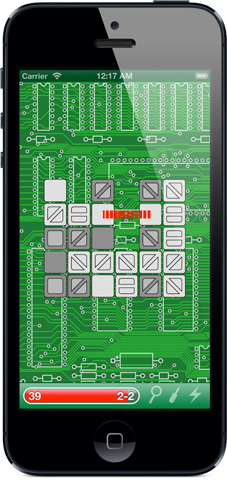
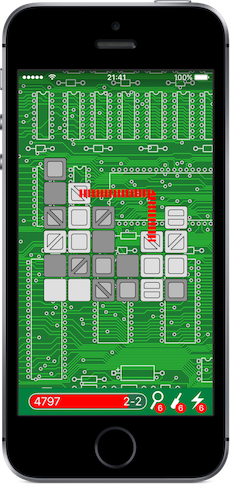
update ShortCircuit page

diff --git a/shortcircuit/index.html b/shortcircuit/index.html
@@ -6,7 +6,7 @@
 <head>
 	<title>ShortCircuit for iPhone, iPod Touch and iPad</title>
 	<link rel="stylesheet" href="style.css" />
-	<script src="http://ajax.googleapis.com/ajax/libs/jquery/1.10.2/jquery.min.js"></script>
+	<script src="https://code.jquery.com/jquery-1.12.4.min.js"></script>
 	<script type="text/javascript">
 	    function resize() {
             var bodyheight = $(window).height();
@@ -20,19 +20,19 @@
 
 <body>
     <div id="main">
-        <img src="iPhone.png" width="227" height="480" id="iPhone" />
+        <img src="iPhone@2x.png" width="230" height="485" id="iPhone"/>
         <img src="title.png" width="377" height="70" style="margin-top:20px"/>
         <br/><br/>
         <span style="color:red;">★</span> Remove all tiles before the time runs out<br/>
         <span style="color:red;">★</span> Connect matching tiles with a circuit to remove them<br/>
-        <img src="circuits.png" width="225" height="160" /><br/>
-        <span style="color:red;">★</span> Available for iPhone, iPod Touch and iPad<br/>
+        <img src="circuits@2x.png" width="225" height="160" /><br/>
+        <span style="color:red;">★</span> Available for iPhone, iPad, and iPod touch<br/>
         <br/>
-        <a href="https://itunes.apple.com/us/app/shortcircuit-a-puzzle-game/id693320541?ls=1&mt=8"><img src="download.png" width="135" height="40" /></a>
+        <a href="https://itunes.apple.com/us/app/shortcircuit-a-puzzle-game/id693320541?ls=1&mt=8"><img src="download.svg" width="135" height="40" /></a>
     </div>
     <div id="bottom">
         <div id="footer-content">
-            ©2013 <a href="http://twitter.com/maczydeco">Jesús A. Álvarez</a> - <a href="http://namedfork.net">namedfork.net</a> - based on Short Circuit for Mac by Carl Limsico
+            ©2013-2016 <a href="https://twitter.com/maczydeco">Jesús A. Álvarez</a> - <a href="https://namedfork.net">namedfork.net</a> - based on Short Circuit for Mac by Carl Limsico
         </div>
     </div>
 </body>
